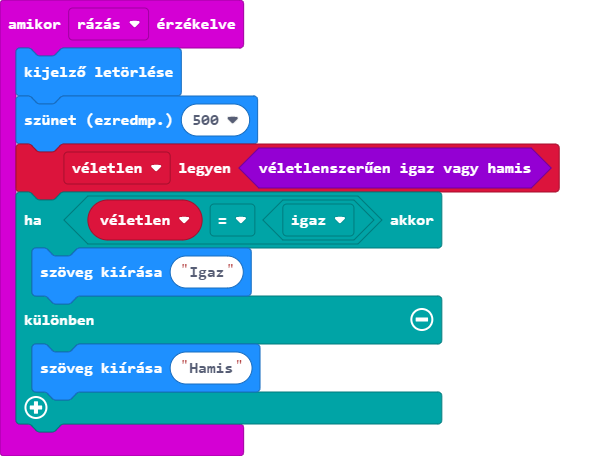
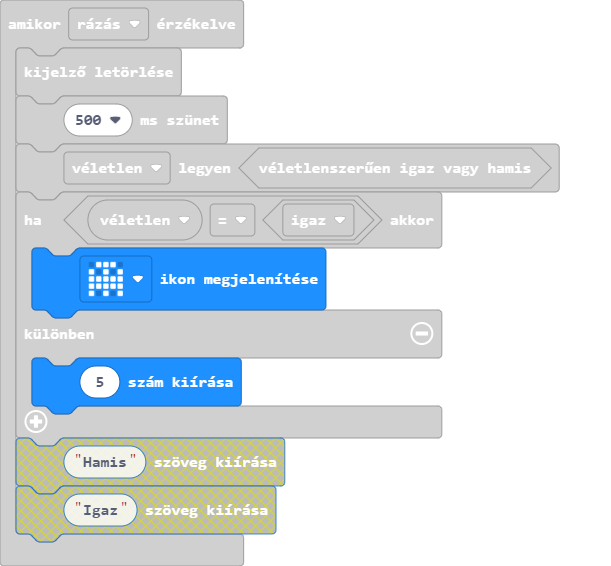
pxt.json, main.blocks, main.ts frissítése

diff --git a/main.ts b/main.ts
@@ -8,9 +8,9 @@ input.onGesture(Gesture.Shake, function () {
     basic.pause(500)
     véletlen = Math.randomBoolean()
     if (véletlen == true) {
-        basic.showString("Igaz")
+        basic.showIcon(IconNames.Ghost)
     } else {
-        basic.showString("Hamis")
+        basic.showNumber(5)
     }
 })
 input.onButtonPressed(Button.AB, function () {
